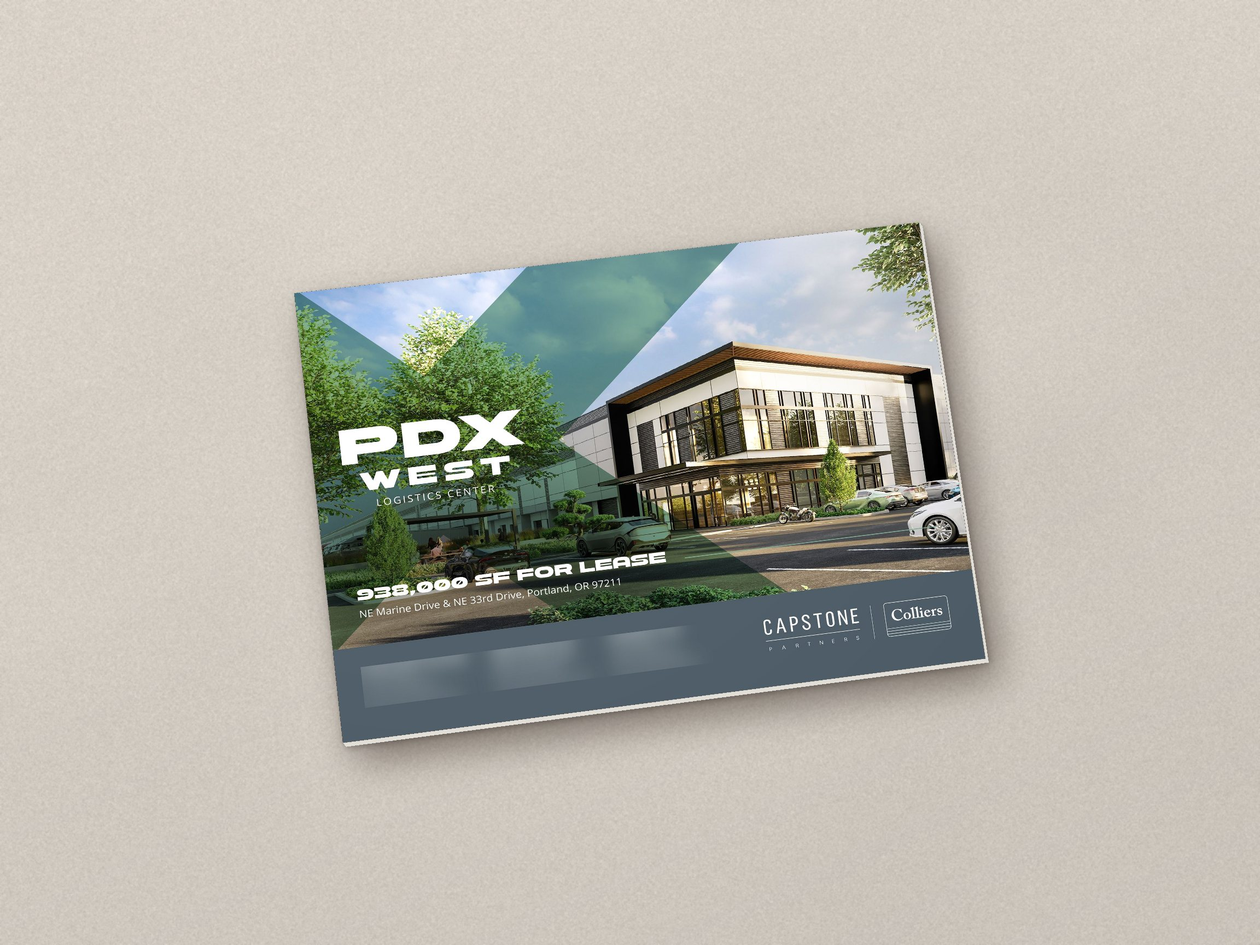
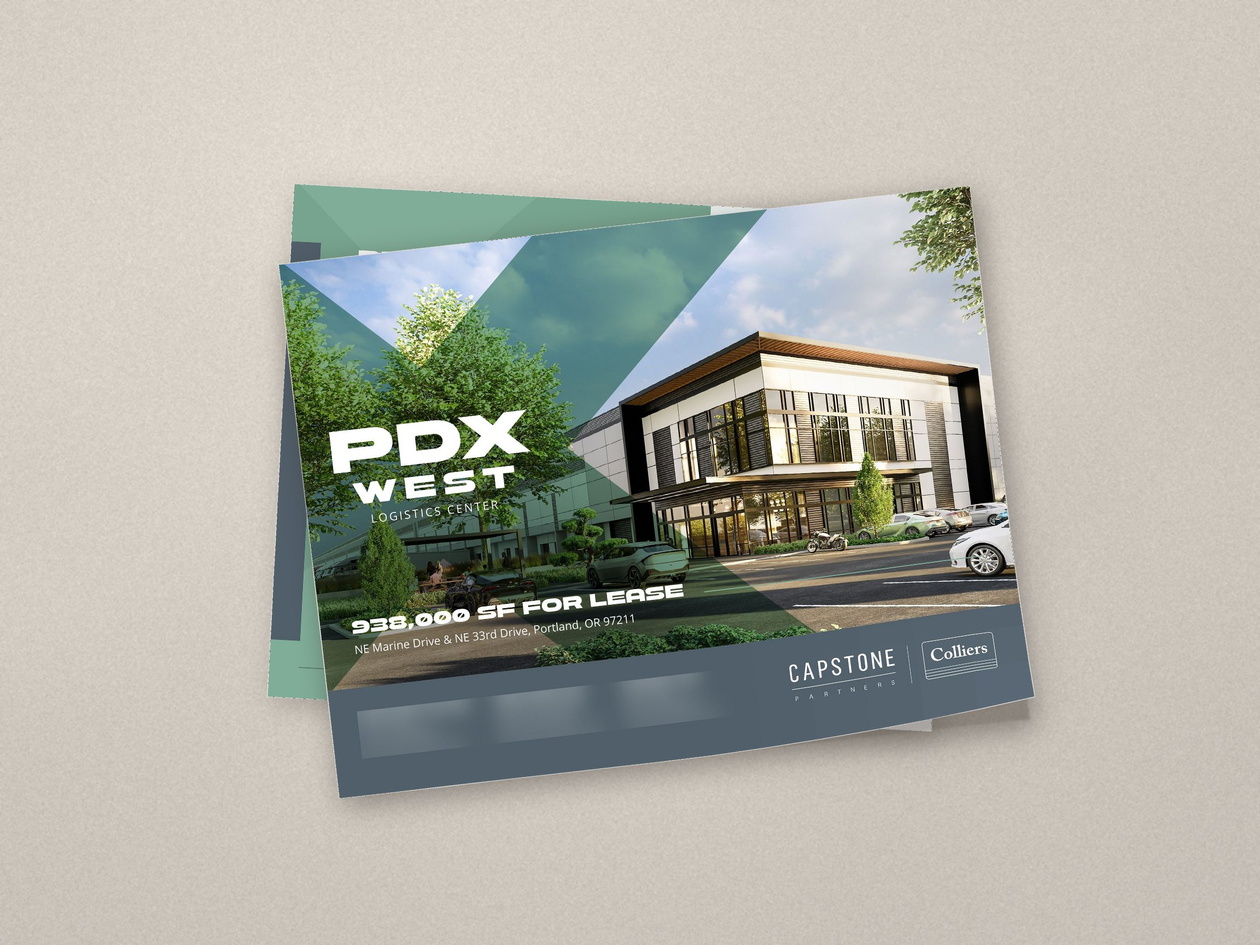
PDX West: self-made flyer mockups replace billboard (hero, printed piece), thin-sheet card, drop signage copy

Changed region(s): [[0.1875, 0.1875, 0.8438, 0.875]]

diff --git a/work/pdx-west.html b/work/pdx-west.html
@@ -3,7 +3,7 @@
 <meta name="viewport" content="width=device-width, initial-scale=1">
 <meta name="robots" content="noindex, nofollow">
 <title>PDX West Logistics Center — Case Study — Lauren Gonzalez</title>
-<meta name="description" content="A leasing flyer and site signage for a 938,000 SF Class A distribution building on Portland’s Airport Way.">
+<meta name="description" content="A leasing flyer for a 938,000 SF Class A distribution building on Portland’s Airport Way.">
 <link rel="preload" href="../assets/fonts/Geist-Medium.woff2" as="font" type="font/woff2" crossorigin>
 <link rel="icon" href="../assets/favicon.svg" type="image/svg+xml">
 <link rel="stylesheet" href="../assets/css/site.css?v=94299cdb">
@@ -13,10 +13,10 @@
 <button class="menu-btn mono-s" aria-expanded="false" aria-controls="site-links"><span>Menu</span></button>
 <nav class="links" id="site-links"><a class="nav-t" href="../works.html#real-estate" aria-current="page">Real Estate</a><a class="nav-t" href="../works.html#brand">Brand &amp; Ecommerce</a><a class="nav-t" href="../about.html">About</a><a class="nav-t" href="../contact.html">Contact</a><a class="btn sm pri" href="../contact.html">Let’s Get to Work <span aria-hidden="true">→</span></a></nav></header>
 <main id="main"><section class="wrap case-cover" data-name="Case Cover"><div class="row" style="justify-content:space-between;gap:16px"><span class="mono muted">[Case Study] Real Estate</span><a class="mono muted" href="../works.html">← All Works</a></div>
-<div class="g12"><h1 class="case-title t4 c1-8">PDX West Logistics Center</h1><p class="bl c8-13">A leasing flyer and site signage for a 938,000 SF Class A distribution building on Portland’s Airport Way.</p></div></section><div class="case-hero" data-name="Hero Mockup"><img src="../assets/img/pdx-west/hero.jpg" alt="PDX West Logistics Center — hero mockup" width="2304" height="1728" decoding="async"></div><section class="wrap case-meta" data-name="Meta"><div class="meta-row"><div><span class="mono-s muted">[Client]</span><span class="bm">Colliers <span class="muted"><span class="ph-t">[[</span>team — confirm<span class="ph-t">]]</span></span></span></div><div><span class="mono-s muted">[Type]</span><span class="bm">Leasing Flyer</span></div><div><span class="mono-s muted">[Location]</span><span class="bm">Portland, OR</span></div><div><span class="mono-s muted">[Year]</span><span class="bm">2026</span></div><div><span class="mono-s muted">[Role]</span><span class="bm"><span class="ph-t">[[</span>Lauren to confirm<span class="ph-t">]]</span></span></div></div></section><section class="dark psr" data-name="Project / Solution / Results">
+<div class="g12"><h1 class="case-title t4 c1-8">PDX West Logistics Center</h1><p class="bl c8-13">A leasing flyer for a 938,000 SF Class A distribution building on Portland’s Airport Way.</p></div></section><div class="case-hero" data-name="Hero Mockup"><img src="../assets/img/pdx-west/hero.jpg" alt="PDX West Logistics Center — hero mockup" width="2304" height="1728" decoding="async"></div><section class="wrap case-meta" data-name="Meta"><div class="meta-row"><div><span class="mono-s muted">[Client]</span><span class="bm">Colliers <span class="muted"><span class="ph-t">[[</span>team — confirm<span class="ph-t">]]</span></span></span></div><div><span class="mono-s muted">[Type]</span><span class="bm">Leasing Flyer</span></div><div><span class="mono-s muted">[Location]</span><span class="bm">Portland, OR</span></div><div><span class="mono-s muted">[Year]</span><span class="bm">2026</span></div><div><span class="mono-s muted">[Role]</span><span class="bm"><span class="ph-t">[[</span>Lauren to confirm<span class="ph-t">]]</span></span></div></div></section><section class="dark psr" data-name="Project / Solution / Results">
 <div class="blk"><div class="lab"><span class="mono muted">[01]</span><span class="s">Project</span></div><div class="txt"><p class="s">PDX West Logistics Center is a planned 938,000 SF Class A, cross-loaded distribution building at NE Marine Drive and NE 33rd Drive — Airport Way’s largest available Class A industrial space, half a mile from Portland International Airport, breaking ground in spring 2027. Colliers and developer Capstone Partners needed a leasing flyer that could sell a building still on the drawing board to logistics and distribution tenants and the brokers who represent them: make the scale and specifications legible at a glance, prove the location, and look as considered as the Class A product it describes.</p></div></div>
-<div class="blk"><div class="lab"><span class="mono muted">[02]</span><span class="s">Solution</span></div><div class="txt"><p class="bl">A landscape flyer built on architectural renderings and aerial photography, cut through with oversized, translucent sage-green triangles and anchored by a heavy, wide all-caps display face for the PDX West wordmark and section titles. A restrained palette of sage, slate and white keeps ten information-dense pages calm and recognisably one family, and the cover art carries straight onto the site signage, so the building, the flyer and the sign read as one brand.</p><p class="bl">The story moves from the building outward: property highlights set out as a two-column specification sheet under a single headline claim, then the site plan, corporate neighbors, the Airport Way submarket, a location map, the regional logistics hubs, workforce statistics and a West Coast drive-time map. Each page pairs one strong image or map with one tight block of facts, so a broker can find clear height, dock doors, trailer stalls or drive distances in seconds.</p></div></div>
-<div class="blk"><div class="lab"><span class="mono muted">[03]</span><span class="s">Results</span></div><div class="txt"><p class="m"><span class="ph-t">[[</span>Placeholder: Outcome to be confirmed by Lauren / Colliers — do not invent metrics.<span class="ph-t">]]</span></p></div></div></section><section class="case-gallery white" data-name="Gallery"><div class="wrap cg8"><div class="cg-col"><div class="g-block"><div class="g-head"><h2 class="ci-h">Design system</h2></div><div class="gallery"><div class="swatches"><div class="col gap8"><div class="sw" style="background:#76A48E"></div><span class="mono-s">Sage</span><span class="mono-s muted">#76A48E</span></div><div class="col gap8"><div class="sw" style="background:#505F69"></div><span class="mono-s">Slate</span><span class="mono-s muted">#505F69</span></div><div class="col gap8"><div class="sw" style="background:#374B4E"></div><span class="mono-s">Deep Slate</span><span class="mono-s muted">#374B4E</span></div><div class="col gap8"><div class="sw" style="background:#ECF3F0"></div><span class="mono-s">Mist</span><span class="mono-s muted">#ECF3F0</span></div><div class="col gap8"><div class="sw" style="background:#FFFFFF"></div><span class="mono-s">White</span><span class="mono-s muted">#FFFFFF</span></div></div></div></div><div class="g-block"><div class="g-head"><h2 class="ci-h">The printed piece</h2></div><div class="gallery"><div class="g-row"><figure class="pic" style="flex:1.3333 1 0"><img src="../assets/img/pdx-west/hero.jpg" alt="The flyer cover as site signage" width="2304" height="1728" decoding="async"></figure><figure class="pic" style="flex:1.3333 1 0"><img src="../assets/img/pdx-west/card.jpg" alt="The printed flyer" width="2304" height="1728" decoding="async"></figure></div><div class="g-row"><figure class="pic" style="flex:1.2945 1 0"><img src="../assets/img/pdx-west/sheets/s01.jpg" alt="Front sheet" width="2000" height="1545" decoding="async"></figure><figure class="pic" style="flex:1.2945 1 0"><img src="../assets/img/pdx-west/sheets/s09.jpg" alt="Back sheet" width="2000" height="1545" decoding="async"></figure></div></div></div><div class="g-block"><div class="g-head"><h2 class="ci-h">Inside the flyer</h2><p class="bm muted">Nine sheets, in the order a tenant or broker reads them — the building, its specifications and site plan, the neighbors and submarket, then access, workforce and reach. Slide them off the stack.</p></div><div class="fb-stage ss-stage" data-name="Sheet stack"><div class="ss-wrap"><div class="ss" tabindex="0" role="group" aria-roledescription="sheet stack" aria-label="PDX West Logistics Center flyer sheets"><figure class="ss-sheet" style="--r:-1.6deg;--x:-10px;--y:6px;z-index:9"><img src="../assets/img/pdx-west/sheets/s01.jpg" alt="PDX West Logistics Center flyer — sheet 1" width="2000" height="1545" draggable="false"></figure><figure class="ss-sheet" style="--r:1.2deg;--x:12px;--y:-8px;z-index:8"><img src="../assets/img/pdx-west/sheets/s02.jpg" alt="PDX West Logistics Center flyer — sheet 2" width="2000" height="1545" draggable="false"></figure><figure class="ss-sheet" style="--r:-0.6deg;--x:-4px;--y:-12px;z-index:7"><img src="../assets/img/pdx-west/sheets/s03.jpg" alt="PDX West Logistics Center flyer — sheet 3" width="2000" height="1545" draggable="false"></figure><figure class="ss-sheet" style="--r:2.0deg;--x:8px;--y:10px;z-index:6"><img src="../assets/img/pdx-west/sheets/s04.jpg" alt="PDX West Logistics Center flyer — sheet 4" width="2000" height="1545" draggable="false"></figure><figure class="ss-sheet" style="--r:-2.2deg;--x:-14px;--y:2px;z-index:5"><img src="../assets/img/pdx-west/sheets/s05.jpg" alt="PDX West Logistics Center flyer — sheet 5" width="2000" height="1545" draggable="false"></figure><figure class="ss-sheet" style="--r:0.8deg;--x:4px;--y:12px;z-index:4"><img src="../assets/img/pdx-west/sheets/s06.jpg" alt="PDX West Logistics Center flyer — sheet 6" width="2000" height="1545" draggable="false"></figure><figure class="ss-sheet" style="--r:-1.0deg;--x:10px;--y:-4px;z-index:3"><img src="../assets/img/pdx-west/sheets/s07.jpg" alt="PDX West Logistics Center flyer — sheet 7" width="2000" height="1545" draggable="false"></figure><figure class="ss-sheet" style="--r:1.6deg;--x:-8px;--y:8px;z-index:2"><img src="../assets/img/pdx-west/sheets/s08.jpg" alt="PDX West Logistics Center flyer — sheet 8" width="2000" height="1545" draggable="false"></figure><figure class="ss-sheet" style="--r:-1.6deg;--x:-10px;--y:6px;z-index:1"><img src="../assets/img/pdx-west/sheets/s09.jpg" alt="PDX West Logistics Center flyer — sheet 9" width="2000" height="1545" draggable="false"></figure></div></div>
+<div class="blk"><div class="lab"><span class="mono muted">[02]</span><span class="s">Solution</span></div><div class="txt"><p class="bl">A landscape flyer built on architectural renderings and aerial photography, cut through with oversized, translucent sage-green triangles and anchored by a heavy, wide all-caps display face for the PDX West wordmark and section titles. A restrained palette of sage, slate and white keeps ten information-dense pages calm and recognisably one family.</p><p class="bl">The story moves from the building outward: property highlights set out as a two-column specification sheet under a single headline claim, then the site plan, corporate neighbors, the Airport Way submarket, a location map, the regional logistics hubs, workforce statistics and a West Coast drive-time map. Each page pairs one strong image or map with one tight block of facts, so a broker can find clear height, dock doors, trailer stalls or drive distances in seconds.</p></div></div>
+<div class="blk"><div class="lab"><span class="mono muted">[03]</span><span class="s">Results</span></div><div class="txt"><p class="m"><span class="ph-t">[[</span>Placeholder: Outcome to be confirmed by Lauren / Colliers — do not invent metrics.<span class="ph-t">]]</span></p></div></div></section><section class="case-gallery white" data-name="Gallery"><div class="wrap cg8"><div class="cg-col"><div class="g-block"><div class="g-head"><h2 class="ci-h">Design system</h2></div><div class="gallery"><div class="swatches"><div class="col gap8"><div class="sw" style="background:#76A48E"></div><span class="mono-s">Sage</span><span class="mono-s muted">#76A48E</span></div><div class="col gap8"><div class="sw" style="background:#505F69"></div><span class="mono-s">Slate</span><span class="mono-s muted">#505F69</span></div><div class="col gap8"><div class="sw" style="background:#374B4E"></div><span class="mono-s">Deep Slate</span><span class="mono-s muted">#374B4E</span></div><div class="col gap8"><div class="sw" style="background:#ECF3F0"></div><span class="mono-s">Mist</span><span class="mono-s muted">#ECF3F0</span></div><div class="col gap8"><div class="sw" style="background:#FFFFFF"></div><span class="mono-s">White</span><span class="mono-s muted">#FFFFFF</span></div></div></div></div><div class="g-block"><div class="g-head"><h2 class="ci-h">The printed piece</h2></div><div class="gallery"><div class="g-row"><figure class="pic" style="flex:1.3333 1 0"><img src="../assets/img/pdx-west/mock_spread.jpg" alt="Three inside sheets of the printed flyer fanned out on a table" width="2304" height="1728" decoding="async"></figure><figure class="pic" style="flex:1.3333 1 0"><img src="../assets/img/pdx-west/card.jpg" alt="The printed flyer cover, with a second sheet underneath" width="2304" height="1728" decoding="async"></figure></div><div class="g-row"><figure class="pic" style="flex:1.2945 1 0"><img src="../assets/img/pdx-west/sheets/s01.jpg" alt="Front sheet" width="2000" height="1545" decoding="async"></figure><figure class="pic" style="flex:1.2945 1 0"><img src="../assets/img/pdx-west/sheets/s09.jpg" alt="Back sheet" width="2000" height="1545" decoding="async"></figure></div></div></div><div class="g-block"><div class="g-head"><h2 class="ci-h">Inside the flyer</h2><p class="bm muted">Nine sheets, in the order a tenant or broker reads them — the building, its specifications and site plan, the neighbors and submarket, then access, workforce and reach. Slide them off the stack.</p></div><div class="fb-stage ss-stage" data-name="Sheet stack"><div class="ss-wrap"><div class="ss" tabindex="0" role="group" aria-roledescription="sheet stack" aria-label="PDX West Logistics Center flyer sheets"><figure class="ss-sheet" style="--r:-1.6deg;--x:-10px;--y:6px;z-index:9"><img src="../assets/img/pdx-west/sheets/s01.jpg" alt="PDX West Logistics Center flyer — sheet 1" width="2000" height="1545" draggable="false"></figure><figure class="ss-sheet" style="--r:1.2deg;--x:12px;--y:-8px;z-index:8"><img src="../assets/img/pdx-west/sheets/s02.jpg" alt="PDX West Logistics Center flyer — sheet 2" width="2000" height="1545" draggable="false"></figure><figure class="ss-sheet" style="--r:-0.6deg;--x:-4px;--y:-12px;z-index:7"><img src="../assets/img/pdx-west/sheets/s03.jpg" alt="PDX West Logistics Center flyer — sheet 3" width="2000" height="1545" draggable="false"></figure><figure class="ss-sheet" style="--r:2.0deg;--x:8px;--y:10px;z-index:6"><img src="../assets/img/pdx-west/sheets/s04.jpg" alt="PDX West Logistics Center flyer — sheet 4" width="2000" height="1545" draggable="false"></figure><figure class="ss-sheet" style="--r:-2.2deg;--x:-14px;--y:2px;z-index:5"><img src="../assets/img/pdx-west/sheets/s05.jpg" alt="PDX West Logistics Center flyer — sheet 5" width="2000" height="1545" draggable="false"></figure><figure class="ss-sheet" style="--r:0.8deg;--x:4px;--y:12px;z-index:4"><img src="../assets/img/pdx-west/sheets/s06.jpg" alt="PDX West Logistics Center flyer — sheet 6" width="2000" height="1545" draggable="false"></figure><figure class="ss-sheet" style="--r:-1.0deg;--x:10px;--y:-4px;z-index:3"><img src="../assets/img/pdx-west/sheets/s07.jpg" alt="PDX West Logistics Center flyer — sheet 7" width="2000" height="1545" draggable="false"></figure><figure class="ss-sheet" style="--r:1.6deg;--x:-8px;--y:8px;z-index:2"><img src="../assets/img/pdx-west/sheets/s08.jpg" alt="PDX West Logistics Center flyer — sheet 8" width="2000" height="1545" draggable="false"></figure><figure class="ss-sheet" style="--r:-1.6deg;--x:-10px;--y:6px;z-index:1"><img src="../assets/img/pdx-west/sheets/s09.jpg" alt="PDX West Logistics Center flyer — sheet 9" width="2000" height="1545" draggable="false"></figure></div></div>
 <div class="fb-controls"><button class="fb-btn ss-prev" aria-label="Previous sheet">←</button><span class="mono fb-counter ss-counter" aria-live="polite">Sheet 01 / 09</span><button class="fb-btn ss-next" aria-label="Next sheet">→</button></div>
 <div class="fb-foot"><span class="mono-s muted fb-hint"><span class="hd">Click or drag the top sheet, or use the ← → keys</span><span class="hm">Swipe the sheet or tap the arrows</span></span></div><p class="mono-s ss-note">Confidential pages — pricing, financials, rent comps and broker contacts — are left out; contact details are blurred.</p></div></div></div></div></section><section class="case-next" data-name="Next Project"><div class="wrap cg8">
 <div class="cn-head"><h2 class="cn-title">Next Project</h2><a class="btn sec sm" href="../works.html">All Works <span aria-hidden="true">→</span></a></div>

diff --git a/_src/flyer_mockups.py b/_src/flyer_mockups.py
@@ -1,0 +1,122 @@
+"""Self-made flyer mockups (no stock): thin printed sheets on a textured surface, with lifted corners and soft shadows.
+Run: python3 _src/flyer_mockups.py   (needs assets/img/<slug>/sheets/sNN.jpg from flyer_sheets.py; cover contacts already blurred)
+Writes for PDX West: hero.jpg (2304x1728, key content inside the 16:9 band the hero shows), card.jpg (Kress-style
+thumbnail) and mock_spread.jpg (three inside sheets fanned out, for 'The printed piece')."""
+import os, math, numpy as np
+from PIL import Image, ImageDraw, ImageFilter
+ROOT = os.path.dirname(os.path.dirname(os.path.abspath(__file__)))
+W, H = 2304, 1728
+
+def surface(base=(214, 207, 198), seed=3, light=(0.3, 0.2)):
+    rng = np.random.default_rng(seed)
+    def up(n, f): return np.array(Image.fromarray(rng.standard_normal((max(2, H // f), max(2, W // f))).astype(np.float32)).resize((W, H), Image.BICUBIC))
+    v = rng.standard_normal((H, W)) * 6 + up(0, 3) * 3.5 + up(0, 240) * 1.5
+    img = np.array(base, float)[None, None, :] + v[..., None] * np.array([1, .98, .95])
+    yy, xx = np.mgrid[0:H, 0:W]
+    d = np.hypot(xx / W - light[0], yy / H - light[1])
+    img = img * (1.05 - 0.13 * d)[..., None]
+    return Image.fromarray(np.clip(img, 0, 255).astype(np.uint8)).filter(ImageFilter.GaussianBlur(0.8))
+
+def coeffs(dst, src):
+    A, B = [], []
+    for (x, y), (u, v) in zip(dst, src):
+        A += [[x, y, 1, 0, 0, 0, -u * x, -u * y], [0, 0, 0, x, y, 1, -v * x, -v * y]]; B += [u, v]
+    return np.linalg.solve(np.array(A, float), np.array(B, float)).tolist()
+
+def rect(cx, cy, w, ang):
+    h = w / 1.2945; a = math.radians(ang); c, s = math.cos(a), math.sin(a)
+    pts = [(-w / 2, -h / 2), (w / 2, -h / 2), (w / 2, h / 2), (-w / 2, h / 2)]
+    return [(cx + x * c - y * s, cy + x * s + y * c) for x, y in pts]
+
+def place(cv, src, corners, lift_corner=None, lift=0.0, shadow=1.0, N=14):
+    """Lay sheet `src` on canvas `cv` at `corners` (TL,TR,BR,BL). lift_corner 0..3 curls that corner up by `lift` px."""
+    sw, sh = src.size
+    P = [np.array(p, float) for p in corners]
+    cu = [(0, 0), (1, 0), (1, 1), (0, 1)]
+    def flat(u, v): return (1 - u) * (1 - v) * P[0] + u * (1 - v) * P[1] + u * v * P[2] + (1 - u) * v * P[3]
+    def f(u, v):
+        if lift_corner is None: return 0.0
+        cx, cy = cu[lift_corner]; d = math.hypot(u - cx, v - cy) / 0.55
+        return max(0.0, 1 - d) ** 2
+    up = np.array([0.18, -1.0])
+    def pos(u, v): return flat(u, v) + up * lift * f(u, v)
+    # shadow: flat footprint + extra soft shadow under the lifted area
+    sm = Image.new('L', (W, H), 0); dr = ImageDraw.Draw(sm)
+    outline = [tuple(pos(u, 0)) for u in np.linspace(0, 1, N)] + [tuple(pos(1, v)) for v in np.linspace(0, 1, N)] + \
+              [tuple(pos(u, 1)) for u in np.linspace(1, 0, N)] + [tuple(pos(0, v)) for v in np.linspace(1, 0, N)]
+    fl = [flat(*c) for c in cu]
+    dr.polygon([(x + 10, y + 14) for x, y in fl], fill=int(120 * shadow))
+    sm = sm.filter(ImageFilter.GaussianBlur(26))
+    if lift_corner is not None and lift > 0:
+        s2 = Image.new('L', (W, H), 0)
+        cx, cy = cu[lift_corner]
+        pts = [tuple(flat(cx + (0.5 - cx) * a, cy + (0.5 - cy) * b) + np.array([lift * .35, lift * .25])) for a, b in [(0, 0), (0.8, 0), (0.8, 0.8), (0, 0.8)]]
+        ImageDraw.Draw(s2).polygon(pts, fill=int(70 * shadow)); s2 = s2.filter(ImageFilter.GaussianBlur(40))
+        sm = Image.fromarray(np.maximum(np.array(sm), np.array(s2)))
+    contact = Image.new('L', (W, H), 0); ImageDraw.Draw(contact).polygon([(x + 2, y + 3) for x, y in fl], fill=int(110 * shadow))
+    sm = Image.fromarray(np.maximum(np.array(sm), np.array(contact.filter(ImageFilter.GaussianBlur(4)))))
+    cv.paste(Image.new('RGB', (W, H), (52, 44, 38)), (0, 0), sm)
+    # sheet, cell by cell, onto a layer clipped by the exact outline (2x supersampled for a clean edge)
+    layer = Image.new('RGB', (W, H), (240, 238, 234))
+    for i in range(N - 1):
+        for j in range(N - 1):
+            u0, u1 = i / (N - 1), (i + 1) / (N - 1); v0, v1 = j / (N - 1), (j + 1) / (N - 1)
+            d = [pos(u0, v0), pos(u1, v0), pos(u1, v1), pos(u0, v1)]
+            s = [(u0 * sw, v0 * sh), (u1 * sw, v0 * sh), (u1 * sw, v1 * sh), (u0 * sw, v1 * sh)]
+            bx0, by0 = int(min(p[0] for p in d)) - 2, int(min(p[1] for p in d)) - 2
+            bx1, by1 = int(max(p[0] for p in d)) + 3, int(max(p[1] for p in d)) + 3
+            loc = [(p[0] - bx0, p[1] - by0) for p in d]
+            tile = src.transform((bx1 - bx0, by1 - by0), Image.PERSPECTIVE, coeffs(loc, s), Image.BICUBIC)
+            k = (f(u0, v0) + f(u1, v1)) / 2          # lifted areas catch a little more light
+            if k > 0:
+                tile = Image.fromarray(np.clip(np.array(tile).astype(float) * (1 + 0.06 * k) + 6 * k, 0, 255).astype(np.uint8))
+            m = Image.new('L', tile.size, 0)
+            c = np.mean(loc, axis=0); ImageDraw.Draw(m).polygon([tuple(c + (np.array(p) - c) * 1.06) for p in loc], fill=255)
+            layer.paste(tile, (bx0, by0), m)
+    def omask(grow):
+        m = Image.new('L', (W * 2, H * 2), 0); c = np.mean(outline, axis=0)
+        ImageDraw.Draw(m).polygon([tuple(2 * (c + (np.array(p) - c) * (1 + grow))) for p in outline], fill=255)
+        return m.resize((W, H), Image.LANCZOS)
+    cv.paste(Image.new('RGB', (W, H), (236, 234, 229)), (0, 0), omask(0.0016))   # paper-thin rim
+    cv.paste(layer, (0, 0), omask(-0.0004))
+    return cv
+
+def pen(cv, x, y, ang, L=620):
+    a = math.radians(ang); dx, dy = math.cos(a), math.sin(a); nx, ny = -dy, dx
+    sm = Image.new('L', (W, H), 0)
+    ImageDraw.Draw(sm).line([(x + 18, y + 24), (x + dx * L + 18, y + dy * L + 24)], fill=150, width=26)
+    cv.paste(Image.new('RGB', (W, H), (40, 34, 30)), (0, 0), sm.filter(ImageFilter.GaussianBlur(14)))
+    body = Image.new('L', (W, H), 0); d = ImageDraw.Draw(body)
+    d.line([(x, y), (x + dx * L, y + dy * L)], fill=255, width=22)
+    cv.paste(Image.new('RGB', (W, H), (24, 24, 26)), (0, 0), body)
+    d2 = ImageDraw.Draw(cv)
+    d2.line([(x + nx * 5, y + ny * 5), (x + dx * L * .97 + nx * 5, y + dy * L * .97 + ny * 5)], fill=(70, 70, 74), width=3)   # highlight
+    d2.line([(x + dx * L * .7, y + dy * L * .7), (x + dx * L * .74, y + dy * L * .74)], fill=(150, 150, 155), width=22)        # clip band
+    tip = (x - dx * 34, y - dy * 34); d2.polygon([(x + nx * 11, y + ny * 11), (x - nx * 11, y - ny * 11), tip], fill=(30, 30, 32))
+
+def sheets(slug): return [Image.open(os.path.join(ROOT, 'assets', 'img', slug, 'sheets', f)).convert('RGB') for f in sorted(os.listdir(os.path.join(ROOT, 'assets', 'img', slug, 'sheets')))]
+
+def out(im, slug, name): p = os.path.join(ROOT, 'assets', 'img', slug, name); im.save(p, 'JPEG', quality=84, optimize=True, progressive=True); print(p)
+
+def pdx():
+    S = sheets('pdx-west')
+    # hero: cover on top of the property-highlights sheet, pen at the side; content kept inside the central 16:9 band
+    cv = surface(seed=11, light=(0.35, 0.25))
+    place(cv, S[1], rect(1300, 820, 1120, -7), shadow=.8)
+    place(cv, S[0], rect(1050, 880, 1180, 3.5), lift_corner=2, lift=34)
+    pen(cv, 1790, 1160, -58)
+    out(cv, 'pdx-west', 'hero.jpg')
+    # card: Kress framing, single thin cover with a lifted corner and a second sheet peeking underneath
+    k = W / 1024
+    cv = surface(seed=3)
+    place(cv, S[1], rect(498 * k, 372 * k, 540 * k, 3.0), shadow=.6)
+    place(cv, S[0], rect(532 * k, 400 * k, 565 * k, -6.5), lift_corner=2, lift=42)
+    out(cv, 'pdx-west', 'card.jpg')
+    # printed piece: three inside sheets fanned out
+    cv = surface(seed=21, light=(0.5, 0.2))
+    place(cv, S[2], rect(700, 930, 1040, -7), shadow=.8)
+    place(cv, S[7], rect(1610, 930, 1040, 7), shadow=.8)
+    place(cv, S[4], rect(1155, 870, 1180, 1.5), lift_corner=2, lift=30)
+    out(cv, 'pdx-west', 'mock_spread.jpg')
+
+if __name__ == '__main__': pdx()

diff --git a/_src/content.py b/_src/content.py
@@ -64,9 +64,9 @@ def re_proj(slug, title, typ, place, year, summary, home=True, pages_title='The 
                 role='[[Lauren to confirm]]', summary=summary, home=home, pages_title=pages_title, pages_intro=pages_intro, **RE_PH)
 
 PROJECTS = [
- dict(re_proj('pdx-west','PDX West Logistics Center','Leasing Flyer','Portland, OR','2026','A leasing flyer and site signage for a 938,000 SF Class A distribution building on Portland’s Airport Way.'),
+ dict(re_proj('pdx-west','PDX West Logistics Center','Leasing Flyer','Portland, OR','2026','A leasing flyer for a 938,000 SF Class A distribution building on Portland’s Airport Way.'),
       project='PDX West Logistics Center is a planned 938,000 SF Class A, cross-loaded distribution building at NE Marine Drive and NE 33rd Drive — Airport Way’s largest available Class A industrial space, half a mile from Portland International Airport, breaking ground in spring 2027. Colliers and developer Capstone Partners needed a leasing flyer that could sell a building still on the drawing board to logistics and distribution tenants and the brokers who represent them: make the scale and specifications legible at a glance, prove the location, and look as considered as the Class A product it describes.',
-      solution=['A landscape flyer built on architectural renderings and aerial photography, cut through with oversized, translucent sage-green triangles and anchored by a heavy, wide all-caps display face for the PDX West wordmark and section titles. A restrained palette of sage, slate and white keeps ten information-dense pages calm and recognisably one family, and the cover art carries straight onto the site signage, so the building, the flyer and the sign read as one brand.',
+      solution=['A landscape flyer built on architectural renderings and aerial photography, cut through with oversized, translucent sage-green triangles and anchored by a heavy, wide all-caps display face for the PDX West wordmark and section titles. A restrained palette of sage, slate and white keeps ten information-dense pages calm and recognisably one family.',
                 'The story moves from the building outward: property highlights set out as a two-column specification sheet under a single headline claim, then the site plan, corporate neighbors, the Airport Way submarket, a location map, the regional logistics hubs, workforce statistics and a West Coast drive-time map. Each page pairs one strong image or map with one tight block of facts, so a broker can find clear height, dock doors, trailer stalls or drive distances in seconds.']),
  re_proj('kress-building','Kress Building','Leasing Brochure','Portland, OR','2026','[[Placeholder: A leasing brochure for a renovated landmark office building in downtown Portland.]]'),
  dict(slug='nomad', title='Nomad', cat='re', type='Investor Offering Package', place='Overlook, North Portland, OR', year='2026', home=True,

diff --git a/_src/images.py b/_src/images.py
@@ -42,7 +42,7 @@ def page(folder, n):
 # slug: (pdf folder, hero mockup, [(page, blur boxes)])
 RE={
  'kress-building':('kress-building','kress-building_brochure.jpg',[(1,[(0.725,0.05,0.982,0.163),(0.035,0.805,0.32,0.92)]),(2,[(0.068,0.866,0.175,0.897)]),(3,[]),(4,[]),(6,[]),(9,[])]),
- 'pdx-west':('pdx-west-flyer','pdx-west_site-sign.jpg',[]),  # sheets + card: see _src/flyer_sheets.py / flyer_card.py
+ 'pdx-west':('pdx-west-flyer',None,[]),  # sheets: _src/flyer_sheets.py; hero, card, mock_spread: _src/flyer_mockups.py
  'the-grid':('kirkland-405-brand','the-grid_lobby-sign.jpg',[(i,[]) for i in range(1,9)]),
  'pacific-center':('pacific-center-flyer','pacific-center_poster.jpg',[(i,[]) for i in range(1,6)]),
  'leftbank':('leftbank-flyer','leftbank_flyer.jpg',[]),  # sheets for the stack: see _src/flyer_sheets.py
@@ -64,7 +64,7 @@ def main():
     man={}
     for slug,(folder,mock,pages) in RE.items():
         ov=MOCK+slug+'_hero-override.jpg'   # mockup supplied by Rodrigo replaces the generated one
-        save(Image.open(ov if os.path.exists(ov) else MOCK+mock),slug,'hero.jpg')
+        if mock or os.path.exists(ov): save(Image.open(ov if os.path.exists(ov) else MOCK+mock),slug,'hero.jpg')
         names=[]
         for k,spec in enumerate(pages,1):
             n,boxes=spec[0],spec[1]
@@ -94,6 +94,7 @@ def main():
     for f in ('about_portrait.jpg','about_educator.jpg'): save(Image.open(RD+f),'about',f.replace('about_',''))
     import madison_book; madison_book.main()
     import flyer_sheets; flyer_sheets.main()
+    import runpy; runpy.run_path(os.path.join(os.path.dirname(__file__),'desk_texture.py'))   # ui/desk-charcoal.jpg (OUT is wiped above)
     json.dump(man,open(os.path.join(os.path.dirname(__file__),'image_manifest.json'),'w'),indent=1)
     print('done')
 if __name__=='__main__': main()

diff --git a/_src/build.py b/_src/build.py
@@ -349,7 +349,7 @@ def pdx_blocks(r):
         return '<div class="g-row">' + ''.join(pic(I + f, a, r, size(I + f)[0] / size(I + f)[1]) for f, a in fs) + '</div>'
     sw = ''.join(f'<div class="col gap8"><div class="sw" style="background:{h}"></div><span class="mono-s">{n}</span><span class="mono-s muted">{h}</span></div>' for n, h in PDX_PAL)
     return (gsec(f'<div class="gallery"><div class="swatches">{sw}</div></div>', 'Design system')
-            + gsec(f'<div class="gallery">{row(("hero.jpg", "The flyer cover as site signage"), ("card.jpg", "The printed flyer"))}{row(("sheets/s01.jpg", "Front sheet"), ("sheets/s09.jpg", "Back sheet"))}</div>', 'The printed piece')
+            + gsec(f'<div class="gallery">{row(("mock_spread.jpg", "Three inside sheets of the printed flyer fanned out on a table"), ("card.jpg", "The printed flyer cover, with a second sheet underneath"))}{row(("sheets/s01.jpg", "Front sheet"), ("sheets/s09.jpg", "Back sheet"))}</div>', 'The printed piece')
             + gsec(sheet_stack('pdx-west', 'PDX West Logistics Center', 9, r, LOG['pdx-west']['note']), 'Inside the flyer', 'Nine sheets, in the order a tenant or broker reads them — the building, its specifications and site plan, the neighbors and submarket, then access, workforce and reach. Slide them off the stack.'))
 
 def case(p):

diff --git a/_src/confidentiality.py b/_src/confidentiality.py
@@ -6,7 +6,7 @@ STD = 'Confidential pages — pricing, financials, rent comps and broker contact
 LOG = {
  'pdx-west': dict(note=STD,
     blurred=['p01 cover: broker names/phones/emails strip (sheet stack, printed piece and the card thumbnail)'],
-    omitted=['page 10 back cover: broker names, phones and emails + disclaimer (no pricing, financials or rent comps anywhere in the flyer)'], mockup='site-sign crop excludes contacts'),
+    omitted=['page 10 back cover: broker names, phones and emails + disclaimer (no pricing, financials or rent comps anywhere in the flyer)'], mockup='self-made flyer mockups (hero, card, fanned sheets) are built from the blurred sheets'),
  'kress-building': dict(note=STD,
     blurred=['p01 cover: commission callout + broker contacts','p02: "$28/SF FSG" rent figure','hero mockup: commission callout + contacts'],
     omitted=['page 05','pages 07–08 floor plans carrying the $28/SF FSG rate','page 10 broker contacts']),

diff --git a/_src/desk_texture.py b/_src/desk_texture.py
@@ -17,4 +17,5 @@ base = np.array([27, 25, 24], float)                  # warm charcoal, sits betw
 img = base[None, None, :] + (v[..., None] - 0.5) * np.array([11, 10, 9])[None, None, :]
 im = Image.fromarray(np.clip(img, 0, 255).astype(np.uint8)).filter(ImageFilter.GaussianBlur(0.6))
 out = os.path.join(os.path.dirname(os.path.dirname(os.path.abspath(__file__))), 'assets', 'img', 'ui', 'desk-charcoal.jpg')
+os.makedirs(os.path.dirname(out), exist_ok=True)
 im.save(out, 'JPEG', quality=78, optimize=True, progressive=True); print(out, os.path.getsize(out))

diff --git a/_src/flyer_sheets.py b/_src/flyer_sheets.py
@@ -17,5 +17,5 @@ def main():
                 if n in boxes: im = blur(im, boxes[n])
                 save(im, slug + '/sheets', f's{k:02d}.jpg', 2000)
         print(slug, 'sheets', len(pages))
-    import flyer_card; flyer_card.card('pdx-west')
+    import flyer_mockups; flyer_mockups.pdx()   # hero, card + fanned-sheets mockup, all self-made
 if __name__ == '__main__': main()

diff --git a/AI-HANDOFF.md b/AI-HANDOFF.md
@@ -64,8 +64,13 @@ Read this first if you are an AI assistant (Claude, ChatGPT, Cursor, etc.) conti
 
 ## PDX West (Nov 20) — same sheet stack as Leftbank
 - Swatches: #76A48E Sage, #505F69 Slate, #374B4E Deep Slate, #ECF3F0 Mist, #FFFFFF White.
-- The printed piece: the site-sign mockup (the hero, unchanged), the card, then the flat front sheet (s01) and back sheet (s09).
+- There is no signage for PDX West; it is a leasing flyer only. Don't mention signs or billboards in its copy or alt text.
+- Mockups are all self-made by `_src/flyer_mockups.py` (PIL mesh warp, lifted-corner curl, thin paper rim, soft shadows, procedural beige surface; no stock), from the already-blurred sheets:
+  - `hero.jpg`: the cover on top of the property-highlights sheet, with a pen, on beige. 2304×1728; the key content sits inside the 16:9 band that the hero crop shows.
+  - `mock_spread.jpg` (The printed piece): three inside sheets (site plan, submarket, building) fanned out.
+  - `card.jpg`: Kress framing; one thin cover sheet with a lifted corner and a second sheet peeking out underneath.
+- The printed piece: mock_spread + card, then the flat front sheet (s01) and back sheet (s09).
 - Sheet stack shows PDF pages 1–9; page 1's broker strip is blurred. Page 10 (back cover with broker contacts) is omitted.
-- `card.jpg` (Home, Works and Next Project thumbnail) is made by `_src/flyer_card.py`: blurred sheet 1, perspective-warped onto a self-made beige paper texture to match the Kress card. It is re-run by `flyer_sheets.py`.
+- `flyer_sheets.py` re-runs `flyer_mockups.pdx()` after rendering the sheets.
 - Project and Solution copy is written from the flyer (no rents, prices or deal figures). Results stays `[[ ]]`.
 - `sheet_stack(..., note)` prints the confidentiality line under the stack. Leftbank and PDX pass `LOG[slug]['note']` (the STD text).
